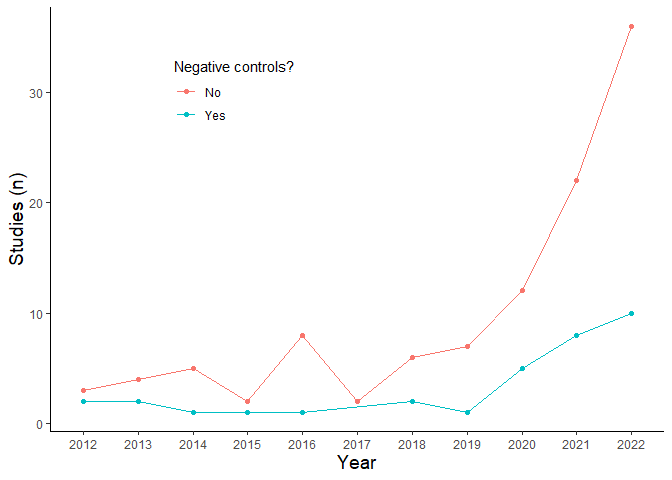
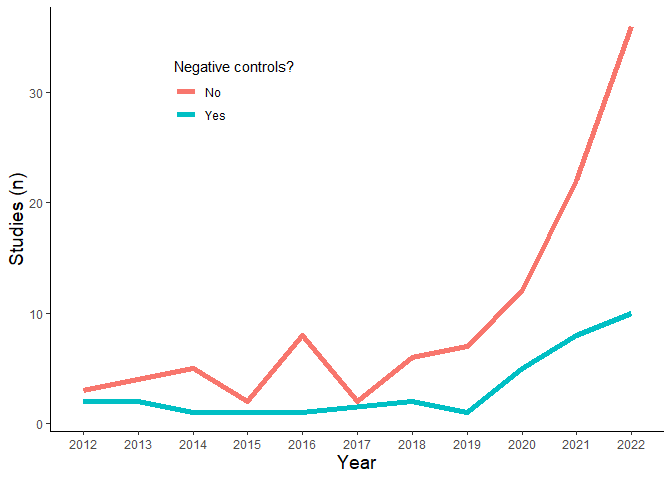
update line width

diff --git a/code/FigureX.md b/code/FigureX.md
@@ -41,8 +41,7 @@ df %>%
   ggplot(aes(x = year, y = publications, 
              group = were_there_negative_controls, 
              colour = were_there_negative_controls)) +
-  geom_line() +
-  geom_point() +
+  geom_line(size = 2) +
   theme_classic() +
   theme(
     legend.position = c(0.3, 0.8),
@@ -53,5 +52,11 @@ df %>%
 
     ## `summarise()` has grouped output by 'year'. You can override using the
     ## `.groups` argument.
+
+    ## Warning: Using `size` aesthetic for lines was deprecated in ggplot2 3.4.0.
+    ## ℹ Please use `linewidth` instead.
+    ## This warning is displayed once every 8 hours.
+    ## Call `lifecycle::last_lifecycle_warnings()` to see where this warning was
+    ## generated.
 
 ![](FigureX_files/figure-markdown_github/unnamed-chunk-3-1.png)
